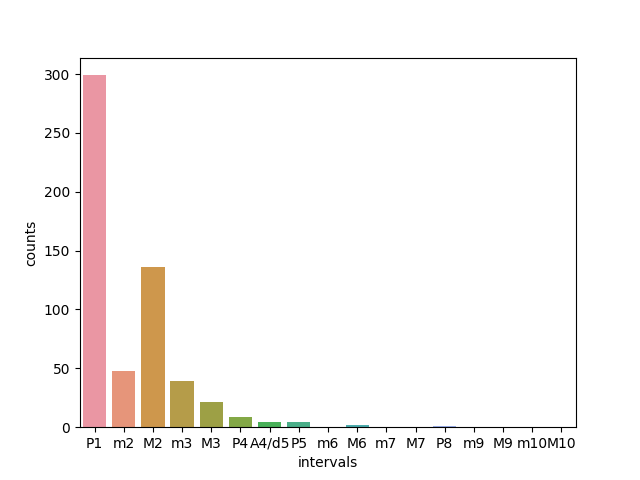
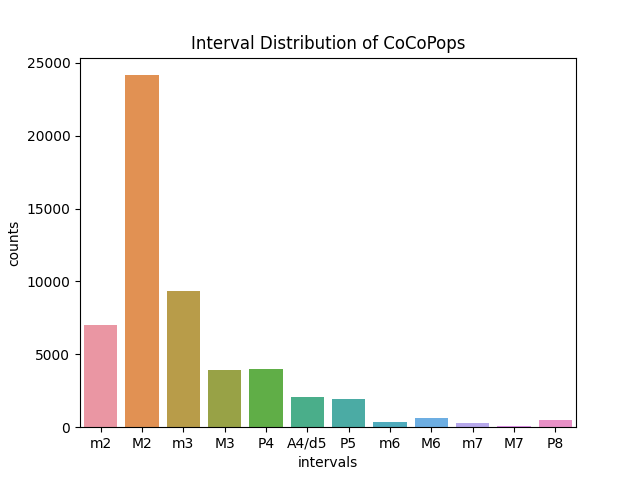
interveral distribution plot

diff --git a/src/krn_to_21.py b/src/krn_to_21.py
@@ -5,25 +5,45 @@ from count_interval import *
 
 
 
+def plot_dataset_interval(dataset_name, dataset_path, output_path):
 
-dataset_name = "CoCoPops"
+    interval_list = []
+
+    counter = 0
+
+    for root, dirs, files in os.walk(dataset_path + dataset_name):
+        for file in files:
+            if ".krn" in file or ".mid" in file:
+                print("file", file)
+                path = root + "/" + file
+                stream = converter.parse(path)
+                collect_interval(stream, interval_list)
+
+    list_to_plot(interval_list, output_path, dataset_name)
+
+    interval_list = []
+
+
+
+
+
 dataset_path = "../data/"
 output_path = "../results/"
 
-interval_list = []
-
-for root, dirs, files in os.walk(dataset_path + dataset_name):
-    for file in files:
-        if ".krn" in file or ".mid" in file:
-            print("file", file)
-            path = root + "/" + file
-            stream = converter.parse(path)
-            collect_interval(stream, interval_list)
-
-            #remove
-            break
 
 
-list_to_plot(interval_list, output_path, dataset_name)
+
+dataset_name = "CoCoPops"
+plot_dataset_interval(dataset_name, dataset_path, output_path)
 
 
+
+
+dataset_name = "han"
+plot_dataset_interval(dataset_name, dataset_path, output_path)
+
+
+
+
+dataset_name = "POP909"
+plot_dataset_interval(dataset_name, dataset_path, output_path)

diff --git a/src/count_interval.py b/src/count_interval.py
@@ -4,6 +4,9 @@ import seaborn as sns
 import matplotlib.pyplot as plt
 
 
+
+
+
 def collect_interval(stream, interval_list):
     """
     input: music21 stream object
@@ -29,12 +32,12 @@ def collect_interval(stream, interval_list):
 
 
 def list_to_plot(interval_list, output_path, dataset_name):
-    
+
     interval_list_str = []
     for interval in interval_list:
         interval_list_str.append(interval.name)
 
-    interval_label_list = ["P1", "m2", "M2", "m3", "M3", "P4", "A4/d5", "P5", "m6", "M6", "m7", "M7", "P8", "m9", "M9", "m10", "M10"]
+    interval_label_list = ["m2", "M2", "m3", "M3", "P4", "A4/d5", "P5", "m6", "M6", "m7", "M7", "P8"]
 
     interval_dict = {}
     for label in interval_label_list:
@@ -49,6 +52,8 @@ def list_to_plot(interval_list, output_path, dataset_name):
 
     fig = sns.barplot(data=interval_df)
     fig.set(xlabel='intervals', ylabel='counts')
+    fig.set(title='Interval Distribution of ' + dataset_name)
     fig = fig.get_figure()
     #plt.show()
     fig.savefig(output_path + dataset_name + ".png")
+    plt.close()
